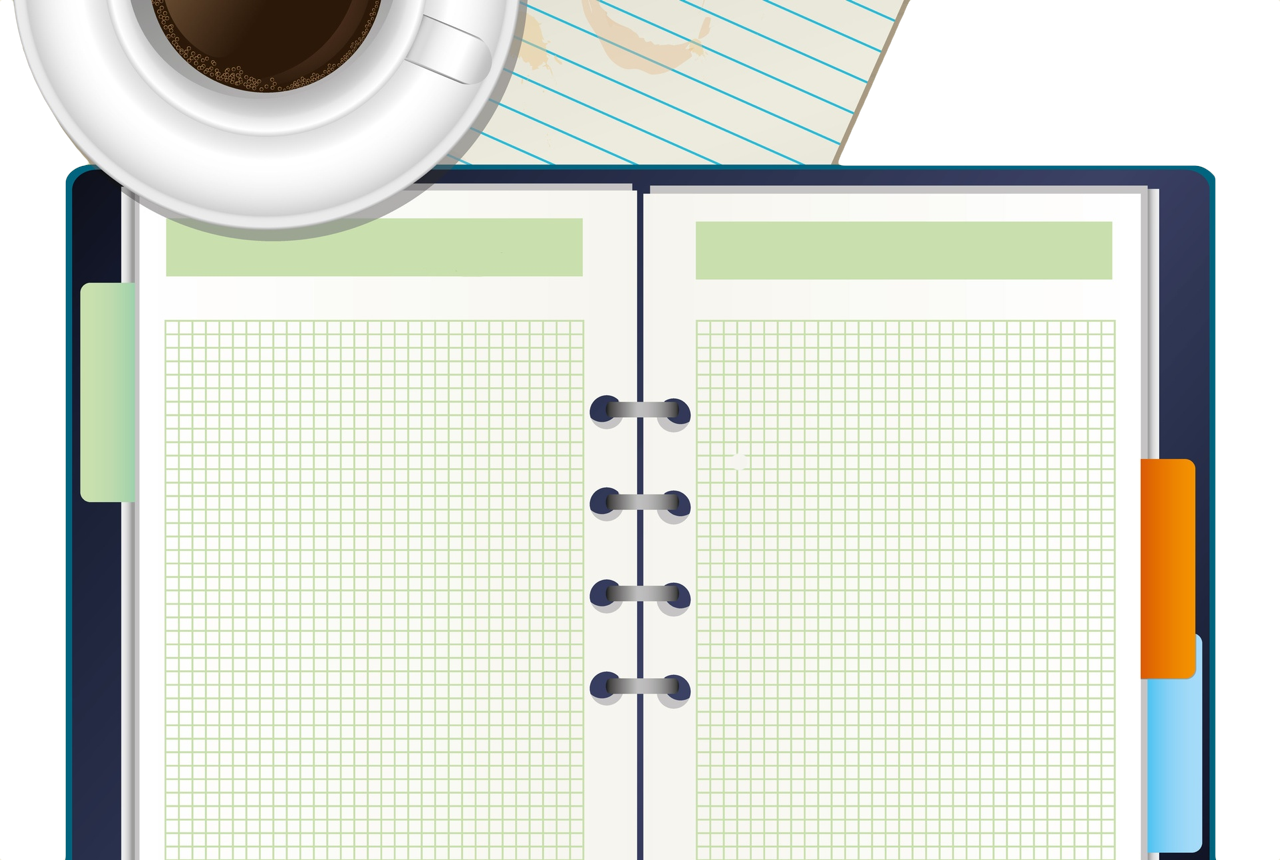
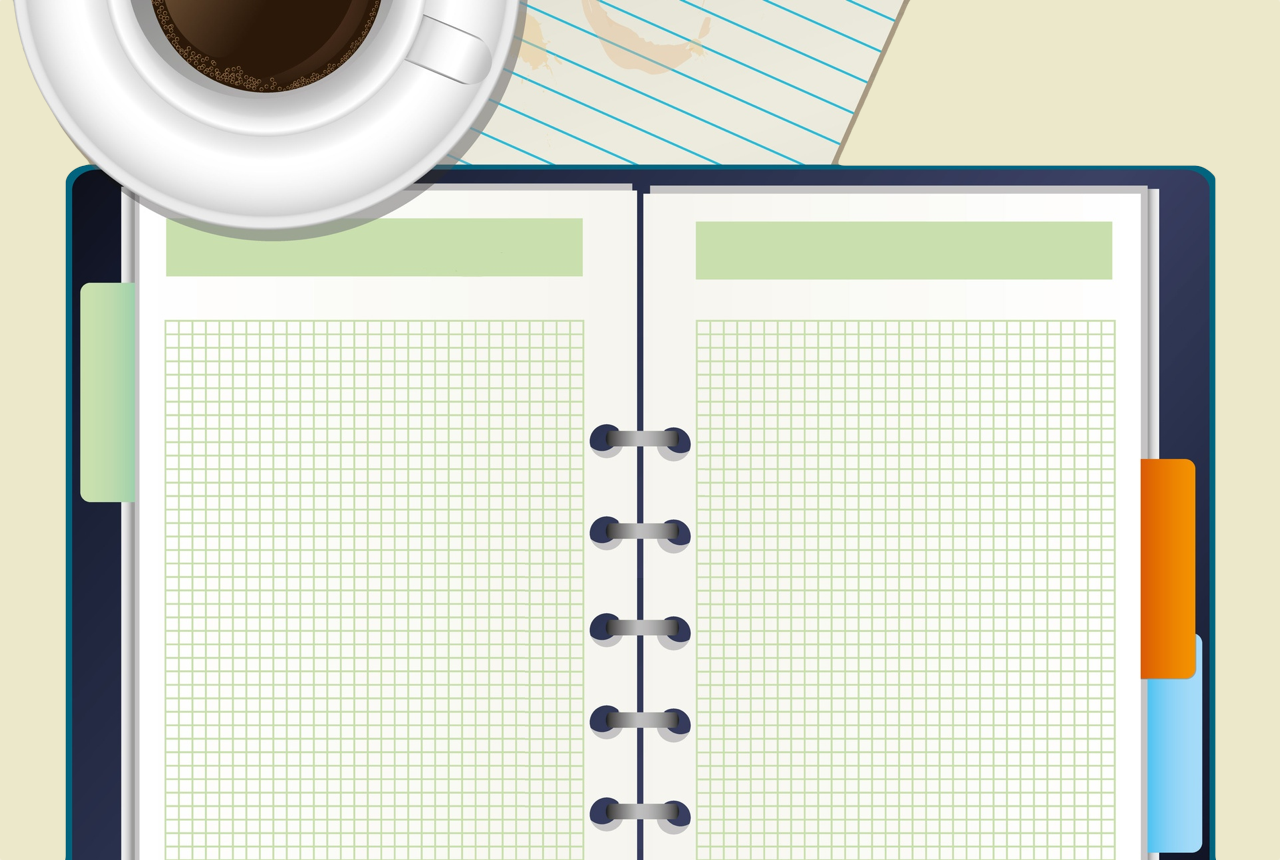
Background de la mort

diff --git a/web/style.less b/web/style.less
@@ -1,99 +1,109 @@
 body {
-    font-family: 'Oxygen', sans-serif;
-    background-color: #e7e4be;
+	font-family: 'Oxygen', sans-serif;
+	background-color: rgb(236, 232, 202);
+	background-image: url('background-repeat.png');
+	background-repeat: repeat-y;
+	background-position: center;
+}
+
+.centered(@width: 0, @height: 0){
+	width: @width;
+	height: @height;
+	margin: 0 auto;
+}
+
+.rotate(@angle: 0){
+	-webkit-transform: rotate(@angle);
 }
 
 #main {
-    width: 1280px;
-    height: 860px;
-    background: url('background.png') no-repeat;
-    margin: 0 auto;
+	background: url('background.png') no-repeat;
+	.centered(1280px, 857px);
 
-    a {
-        color: white;
-        font-size: 30px;
-        text-decoration: none;
-        display: block;
-        -webkit-transform: rotate(-90deg);
-        position: relative;
-        width: 200px;
-        height: 50px;
-        line-height: 50px;
-        vertical-align: middle;
-        text-align: center;
-    }
+	a {
+		.rotate(-90deg);
+		color: white;
+		font-size: 30px;
+		text-decoration: none;
+		display: block;
+		position: relative;
+		width: 200px;
+		height: 50px;
+		line-height: 50px;
+		vertical-align: middle;
+		text-align: center;
+	}
 
-    a:hover {
-        color: #753a2a;
-    }
+	a:hover {
+		color: #753a2a;
+	}
 
-    a#navCommits {
-        left: 7px;
-        top: 365px;
-    }
+	a#navCommits {
+		left: 7px;
+		top: 365px;
+	}
 
-    a#navBadges {
-        left: 1065px;
-        top: 495px;
-    }
+	a#navBadges {
+		left: 1065px;
+		top: 495px;
+	}
 
-    a#navStats {
-        left: 1075px;
-        top: 625px;
-    }
+	a#navStats {
+		left: 1075px;
+		top: 625px;
+	}
 
-    a#navCodeStory {
-        left: 170px;
-        top: -155px;
-        -webkit-transform: rotate(0);
-    }
+	a#navCodeStory {
+		left: 170px;
+		top: -155px;
+		.rotate(0);
+	}
 
-    #commits {
-        width: 390px;
-        height: 500px;
-        margin-left: 180px;
-        margin-top: 150px;
-        float: left;
-    }
+	#commits {
+		width: 390px;
+		height: 500px;
+		margin-left: 180px;
+		margin-top: 150px;
+		float: left;
+	}
 
-    #badges {
-        width: 390px;
-        height: 500px;
-        margin-left: 145px;
-        margin-top: 150px;
-        float: left;
-    }
+	#badges {
+		width: 390px;
+		height: 500px;
+		margin-left: 145px;
+		margin-top: 150px;
+		float: left;
+	}
 
-    .commit {
-        margin-bottom: 50px;
-        min-height: 80px;
+	.commit {
+		margin-bottom: 50px;
+		min-height: 80px;
+	}
 
-        img {
-            -webkit-transform: rotate(-5deg);
-            width: 64px;
-            height: 64px;
-            margin-top: -10px;
-            margin-left: -10px;
-            padding-bottom: 25px;
-            box-shadow: 0 0 0 5px white, 0 0 0 6px lightgray, 0 0 8px 7px gray;
-            background-color: white;
-        }
+	img {
+		.rotate(-5deg);
+		width: 64px;
+		height: 64px;
+		margin-top: -10px;
+		margin-left: -10px;
+		padding-bottom: 25px;
+		box-shadow: 0 0 0 5px white, 0 0 0 6px lightgray, 0 0 8px 7px gray;
+		background-color: white;
+	}
 
-        .date {
-            -webkit-transform: rotate(-5deg);
-            margin-left: -7px;
-            margin-top: -35px;
-            font-family: 'Bad Script', cursive;
-        }
+	.date {
+		.rotate(-5deg);
+		margin-left: -7px;
+		margin-top: -35px;
+		font-family: 'Bad Script', cursive;
+	}
 
-        p {
-            margin-left: 80px;
-            margin-top: -60px;
-            font-family: 'Bad Script', cursive;
-            color: #00008b;
-            font-size: 24px;
-            line-height: 27px;
-        }
-        
-    }
+	p {
+		margin-left: 80px;
+		margin-top: -60px;
+		font-family: 'Bad Script', cursive;
+		color: #00008b;
+		font-size: 24px;
+		line-height: 27px;
+	}
 }
